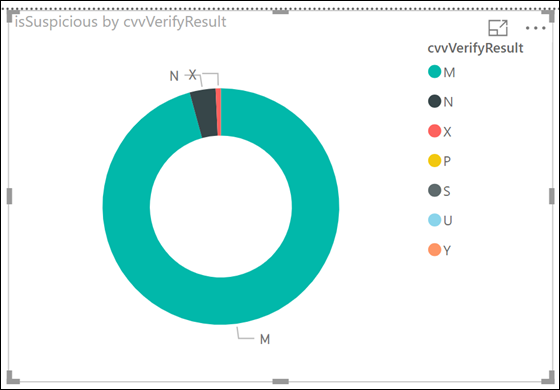
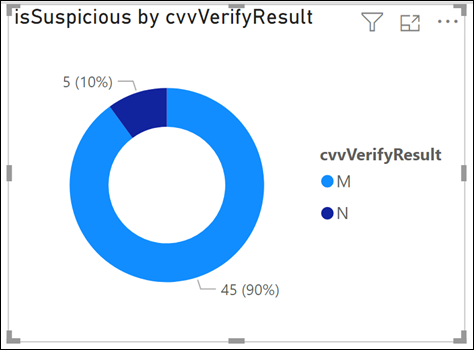
Power BI reporting

diff --git a/Hands-on lab/HOL step-by step - Cosmos DB real-time advanced analytics.md b/Hands-on lab/HOL step-by step - Cosmos DB real-time advanced analytics.md
@@ -64,8 +64,8 @@ Microsoft and the trademarks listed at <https://www.microsoft.com/en-us/legal/in
     - [Task 2: Create Synapse SQL Serverless views](#task-2-create-synapse-sql-serverless-views)
   - [Exercise 7: Query the analytical store with Apache Spark](#exercise-7-query-the-analytical-store-with-apache-spark)
   - [Exercise 8: Reporting](#exercise-8-reporting)
-    - [Task 1: Utilizing Power BI to summarize and visualize global fraud trends](#task-1-utilizing-power-bi-to-summarize-and-visualize-global-fraud-trends)
-    - [Task 2: Creating dashboards in Azure Databricks](#task-2-creating-dashboards-in-azure-databricks)
+    - [Task 1: Retrieve the Synapse SQL Serverless endpoint address](#task-1-retrieve-the-synapse-sql-serverless-endpoint-address)
+    - [Task 2: Utilizing Power BI to summarize and visualize global fraud trends](#task-2-utilizing-power-bi-to-summarize-and-visualize-global-fraud-trends)
   - [After the hands-on lab](#after-the-hands-on-lab)
     - [Task 1: Delete the resource group](#task-1-delete-the-resource-group)
 
@@ -1598,140 +1598,107 @@ Woodgrove also wants to explore the Cosmos DB analytical store with Apache Spark
 
 Duration: 30 minutes
 
-In this exercise, you create dashboards and reports in Power BI for business analysts to use, as well as within Azure Databricks for data scientists and analysts to query and visualize the data interactively.
+In this exercise, you create dashboards and reports in Power BI that connect to the Azure Cosmos DB analytical stores through the Synapse SQL Serverless views you created earlier.
 
-### Task 1: Utilizing Power BI to summarize and visualize global fraud trends
+### Task 1: Retrieve the Synapse SQL Serverless endpoint address
 
-In this task, you will use the JDBC URL for your Azure Databricks cluster to connect to from Power BI desktop. Then you will create reports and add them to a dashboard to summarize and visualize global fraud trends to gain more insight into the data.
+In this task, you retrieve the SQL service endpoint address used to connect to your Synapse SQL Serverless database from your Power BI reports.
 
-1. Navigate to your Azure Databricks workspace in the [Azure portal](https://portal.azure.com/), and select **Launch Workspace** from the overview blade, signing into the workspace with your Azure credentials, if required.
+1. In the Azure Portal, navigate to the **Resource Group** created for this hands-on lab, then navigate to the **Synapse Analytics workspace** resource.
 
-    ![The Launch Workspace button is displayed on the Databricks Workspace Overview blade.](media/databricks-launch-workspace.png 'Launch Workspace')
+    ![The Synapse workspace within the Resource Group is highlighted.](media/resource-group-hands-on-lab-synapse.png "The Synapse workspace within the Resource Group is highlighted.")
 
-2. Select **Clusters** from the left-hand menu, then select your cluster in the list of interactive clusters.
+2. In the Synapse Analytics workspace Overview blade, copy the **SQL on-demand endpoint** and save it to Notepad or similar text editor.
 
-    ![The cluster is listed and selected](media/databricks-select-cluster.png 'Select cluster')
+    ![The on-demand endpoint is highlighted.](media/synapse-serverless-address.png "Overview blade")
 
-3. Scroll down and expand the **Advanced Options** section, then select the **JDBC/ODBC** tab. Copy the first **JDBC URL** value.
+### Task 2: Utilizing Power BI to summarize and visualize global fraud trends
 
-    ![The cluster is displayed with the JDBC/ODBC tab selected, and the first JDBC URL value is highlighted.](media/databricks-jdbc.png 'JDBC/ODBC')
+In this task, you will use the Synapse SQL Serverless service endpoint to connect to from Power BI desktop. Then you will create reports and add them to a dashboard to summarize and visualize global fraud trends to gain more insight into the data.
 
-4. Now, you need to modify the JDBC URL to construct the JDBC server address that you will use to set up your Spark cluster connection in Power BI Desktop.
+1. Open Power BI Desktop and sign in if needed.
 
-    - In the JDBC URL:
-      - Replace `jdbc:spark` with `https`.
-      - Remove everything in the path between the port number and `/sql`.
-      - Remove the following string from the end of the URL: `;AuthMech=3;UID=token;PWD=<personal-access-token>`, retaining the components indicated by the highlights in the image below.
+    ![The Sign in button is highlighted.](media/pbi-signin.png "Power BI Desktop")
 
-    ![Parsed Cluster JDBC URL](media/databricks-cluster-jdbc-url-parsed.png 'Parsed JDBC URL')
+2. On the Power BI Desktop welcome screen select **Get data**.
 
-    - In our example, the server address would be: `https://eastus.azuredatabricks.net:443/sql/protocolv1/o/8433778235244215/0210-035431-quad242`
+    ![Select Get Data on the Power BI Desktop home screen.](media/pbi-getdata.png "Power BI Desktop")
 
-    - Copy your server address.
+3. In the Get Data dialog, select **Azure**, then **Azure SQL database**. Select **Connect**.
 
-5. Open Power BI Desktop, then select **Get data**.
+    ![The Azure SQL database connection is selected.](media/pbi-get-data-azure-sql-database.png "Get Data")
 
-    ![Select Get Data on the Power BI Desktop home screen.](media/power-bi-desktop-home.png 'Power BI Desktop')
+4. Paste the SQL on-demand endpoint you copied in Task 1 above, into the **Server** field. Type `Woodgrove` in the **Database** field. Select the **Import** option and then select **OK**.
 
-6. In the Get Data dialog, search for `spark`, then select **Spark** from the list of results.
+    ![The SQL connection details are displayed.](media/pbi-sql-connection.png "SQL Server database")
 
-    ![Search for Spark in the Get Data dialog, then select Spark from the list results.](media/power-bi-desktop-get-data.png 'Get Data')
+5. Select **Microsoft account** for the authentication type, then select **Sign in** to enter your Azure account credentials used for this lab. After authenticating, select **Connect** to continue.
 
-7. Enter the Databricks server address you created above into the Server field.
+    ![The sign in button is highlighted.](media/pbi-azure-auth.png "Microsoft account")
 
-8. Set the Protocol to HTTP.
+6. Select all the views, then select **Load**.
 
-9. Select DirectQuery as the data connectivity mode, then select OK.
+    ![All views are selected.](media/pbi-navigator.png "Navigator")
 
-    ![The Spark connection dialog is displayed with the previously mentioned values.](media/power-bi-desktop-spark-connection.png 'Spark connection dialog')
+7. After a few moments, you will be redirected to a blank report screen with the tables listed on the right-hand side. Select the **Donut chart** visualization on the right-hand menu under Visualizations and next to the list of tables and fields.
 
-    > Setting the data connectivity mode to DirectQuery lets you offload processing to Spark. This is ideal when you have a large volume of data or when you want near real-time analysis.
+    ![Select Donut chart under the Visualizations menu on the right.](media/power-bi-donut-chart.png "Donut Chart")
 
-10. Before you can enter credentials on the next screen, you need to create an Access token in Azure Databricks. In your Databricks workspace, select the Account icon in the top right corner, then select User settings from the menu.
+8. Expand the `SuspiciousTransactions` view, then drag `ipCountryCode` under **Legend**, and `transactionAmountUSD` under **Values**.
 
-    ![Select User Settings from the Account menu.](media/databricks-user-settings.png 'User Settings menu')
+    ![Screenshot shows the donut chart settings.](media/power-bi-donut-chart-country-transaction.png "Donut Chart settings")
 
-11. On the User Settings page, select **Generate New Token**, enter "Power BI Desktop" in the comment, and select Generate.
-
-    ![Enter Power BI Desktop as the comment then select Generate.](media/databricks-generate-token.png 'Generate New Token')
-
-12. Copy the generated token, and save it as you will need it more than once below. **NOTE**: You will not be able to access the token in Databricks once you close the Generate token dialog, so be sure to save this value to a text editor or another location you can access during this lab.
-
-13. Back in Power BI Desktop, enter "token" for the username, and paste the access token you copied from Databricks into the password field.
-
-    ![Enter "token" as the user name and paste your generated token into the password field.](media/power-bi-desktop-spark-token.png 'Enter Spark credentials')
-
-14. Select the `scored_transactions` and `percent_suspicious` tables, then select **Load**.
-
-    ![Select the scored_transactions and percent_suspicious tables, then select Load.](media/power-bi-desktop-select-tables.png 'Select Tables')
-
-15. After a few moments, you will be redirected to a blank report screen with the tables listed on the right-hand side. Select the **Donut chart** visualization on the right-hand menu under Visualizations and next to the list of tables and fields.
-
-    ![Select Donut chart under the Visualizations menu on the right.](media/power-bi-donut-chart.png 'Donut Chart')
-
-16. Expand the `scored_transactions` table, then drag `ipCountryCode` under **Legend**, and `transactionAmountUSD` under **Values**.
-
-    ![Screenshot shows the donut chart settings.](media/power-bi-donut-chart-country-transaction.png 'Donut Chart settings')
-
-17. Now select the **Format** tab for the donut chart and expand the **Legend** section underneath. Select **On** to turn on the legend, and select **Right** underneath **Position**. This turns on the legend for the chart and displays it to the right.
-
-    ![Screenshot shows the donut chart format settings.](media/power-bi-donut-chart-country-transaction-format.png 'Donut Chart format')
-
-18. Your donut chart should look similar to the following, displaying the US dollar amount of transactions by country code:
+9. Your donut chart should look similar to the following, displaying the US dollar amount of transactions by country code:
 
     ![Screenshot of the donut chart.](media/power-bi-donut-chart-country-transaction-display.png 'Donut Chart')
 
-19. Select a blank area on the report to deselect the donut chart. Now select the **Treemap** visualization.
+10. Select a blank area on the report to deselect the donut chart. Now select the **Treemap** visualization.
 
-    ![The Treemap visualization is selected.](media/power-bi-treemap-visualization.png 'Treemap visualization')
+    ![The Treemap visualization is selected.](media/power-bi-treemap-visualization.png "Treemap visualization")
 
-20. Drag the `ipCountryCode` field from the `scored_transactions` table under **Group**, then drag `isSuspicious` under **Values**.
+11. Drag the `ipCountryCode` field from the `SuspiciousTransactions` view under **Group**, then drag `isSuspicious` under **Values**.
 
-    ![Screenshot shows the treemap settings.](media/power-bi-treemap-country-suspicious-transactions.png 'Treemap settings')
+    ![Screenshot shows the treemap settings.](media/power-bi-treemap-country-suspicious-transactions.png "Treemap settings")
 
-21. The treemap should look similar to the following, displaying the number of suspicious transactions per country:
+12. The treemap should look similar to the following, displaying the number of suspicious transactions per country:
 
     ![Screenshot of the treemap.](media/power-bi-treemap-country-suspicious-transactions-display.png 'Treemap')
 
-22. Select a blank area on the report to deselect the treemap. Now select the **Treemap** visualization once more to add a new treemap. Drag the `transactionAmountUSD` field from the `scored_transactions` table under **Group**, then drag `isSuspicious` under **Values**.
+13. Select a blank area on the report to deselect the treemap. Now select the **Treemap** visualization once more to add a new treemap. Drag the `transactionAmountUSD` field from the `scored_transactions` table under **Group**, then drag `isSuspicious` under **Values**.
 
-    ![Screenshot shows the treemap settings.](media/power-bi-treemap-suspicious-transactions.png 'Treemap settings')
+    ![Screenshot shows the treemap settings.](media/power-bi-treemap-suspicious-transactions.png "Treemap settings")
 
-23. The new treemap should look similar to the following, displaying the US dollar amounts that tend to have suspicious transactions, with the larger boxes representing higher suspicious transactions compared to smaller boxes:
+14. The new treemap should look similar to the following, displaying the US dollar amounts that tend to have suspicious transactions, with the larger boxes representing higher suspicious transactions compared to smaller boxes:
 
     ![Screenshot of the treemap.](media/power-bi-treemap-suspicious-transactions-display.png 'Treemap')
 
-24. Select a blank area on the report to deselect the treemap. Now select the **Donut chart** visualization. Drag the `localHour` field from the `scored_transactions` table under **Legend**, then drag `isSuspicious` under **Values**.
+15. Select a blank area on the report to deselect the treemap. Now select the **Donut chart** visualization. Drag the `localHour` field from the `SuspiciousTransactions` view under **Legend**, then drag `isSuspicious` under **Values**.
 
-    ![Screenshot of the Donut chart settings.](media/power-bi-donut-chart-suspicious-hour.png 'Donut Chart settings')
+    ![Screenshot of the Donut chart settings.](media/power-bi-donut-chart-suspicious-hour.png "Donut Chart settings")
 
-25. The donut chart should look similar to the following, displaying which hours of the day tend to have a higher number of suspicious activity overall:
+16. The donut chart should look similar to the following, displaying which hours of the day tend to have a higher number of suspicious activity overall:
 
     ![Screenshot of the donut chart highlighted.](media/power-bi-donut-chart-suspicious-hour-display.png 'Donut Chart')
 
-26. Select a blank area on the report to deselect the donut chart. Now select the **Map** visualization. Drag the `ipCountryCode` field from the `scored_transactions` table under **Location**, then drag `isSuspicious` under **Size**.
+17. Select a blank area on the report to deselect the donut chart. Now select the **Map** visualization. Drag the `ipCountryCode` field from the `SuspiciousTransactions` view under **Location**, then drag `isSuspicious` under **Size**.
 
-    ![Screenshot of the Map visualization settings.](media/power-bi-map.png 'Map settings')
+    ![Screenshot of the Map visualization settings.](media/power-bi-map.png "Map settings")
 
-27. The map should look similar to the following, showing circles of varying sizes on different regions of the map. The larger the circle, the more suspicious transactions there are in that region. You may also resize the charts to optimize your layout:
+18. The map should look similar to the following, showing circles of varying sizes on different regions of the map. The larger the circle, the more suspicious transactions there are in that region. You may also resize the charts to optimize your layout:
 
-    ![Screenshot of the map visualization and the full report view.](media/power-bi-map-display.png 'Map')
+    ![Screenshot of the map visualization and the full report view.](media/power-bi-map-display.png "Map")
 
-28. Now add a new page to your report. Select the **+** button on the bottom-left next to **Page 1**. This will create a new blank report page to add a few more visualizations.
+19. Now add a new page to your report. Select the **+** button on the bottom-left next to **Page 1**. This will create a new blank report page to add a few more visualizations.
 
-    ![Screenshot of the button you select to add a new page to the report.](media/power-bi-new-page.png 'New page button')
+    ![Screenshot of the button you select to add a new page to the report.](media/power-bi-new-page.png "New page button")
 
-29. Select a blank area on the report, then select the **Donut chart** visualization. Drag the `cvvVerifyResult` field from the `scored_transactions` table under **Legend**, then drag `isSuspicious` under **Values**.
+20. Select a blank area on the report, then select the **Donut chart** visualization. Drag the `cvvVerifyResult` field from the `SuspiciousTransactoins` view under **Legend**, then drag `isSuspicious` under **Values**.
 
-    ![Screenshot of the Donut chart settings.](media/power-bi-donut-chart-verify-result.png 'Donut Chart settings')
+    ![Screenshot of the Donut chart settings.](media/power-bi-donut-chart-verify-result.png "Donut Chart settings")
 
-30. Now select the **Format** tab for the donut chart and expand the **Legend** section underneath. Select **On** to turn on the legend, and select **Right** underneath **Position**. This turns on the legend for the chart and displays it to the right.
+21. The donut chart should look similar to the following, displaying which CVV2 credit card verification codes correlate with the most suspicious transactions:
 
-    ![Screenshot shows the donut chart format settings.](media/power-bi-donut-chart-country-transaction-format.png 'Donut Chart format')
-
-31. The donut chart should look similar to the following, displaying which CVV2 credit card verification codes correlate with the most suspicious transactions:
-
-    ![Screenshot of the donut chart highlighted.](media/power-bi-donut-chart-verify-result-display.png 'Donut Chart')
+    ![Screenshot of the donut chart highlighted.](media/power-bi-donut-chart-verify-result-display.png "Donut Chart")
 
     The CVV2 codes have the following meaning in the data set:
 
@@ -1743,43 +1710,35 @@ In this task, you will use the JDBC URL for your Azure Databricks cluster to con
     | S    | Issuer indicates that CVV2 data should be present on the card, but the merchant has indicated data is not present on the card |
     | U    | Issuer has not certified for CVV2 or Issuer has not provided Visa with the CVV2 encryption keys                               |
 
-32. Select a blank area on the report, then select the **100% Stacked column chart** visualization. Drag the `isSuspicious` field from the `scored_transactions` table under **Axis**, then drag `digitalItemCount` under **Value**, and finally `physicalItemCount` under **Value** as well.
+22. Select a blank area on the report, then select the **Pie chart** visualization. Drag the `ipCountryCode` field from the `SuspiciousAgg` view under **Legend**, then drag `PercentSuspicious` under **Values**.
 
-    ![Screenshot of the 100% Stacked Column Chart settings.](media/power-bi-stacked-column-chart.png '100% Stacked Column Chart settings')
+    ![Screenshot of the pie chart settings.](media/power-bi-pie-chart-percent-suspicious.png "Pie chart settings")
 
-33. The 100% stacked column chart should look similar to the following, displaying the percentage of the number of physical items and digital items purchased for transactions that were not suspicious (value of 0) in one column, and the percentage of the number of both types of items purchased with suspicious transactions (value of 1):
+23. The pie chart should look similar to the following, displaying the percent of suspicious transactions by country code:
 
-    ![Screenshot of the 100% stacked column chart.](media/power-bi-stacked-column-chart-display.png '100% Stacked Column Chart')
+    ![Screenshot of the pie chart.](media/power-bi-pie-chart-percent-suspicious-display.png "Donut Chart")
 
-34. Select a blank area on the report, then select the **ArcGIS Maps for Power BI** visualization. If you are prompted to accept the terms for using this visualization, please do so now. Drag the `ipCountryCode` field from the `percent_suspicious` table under **Location**, then drag `SuspiciousTransactionCount` under **Color**.
+24. Select a blank area on the report, then select the **Matrix** visualization. Drag the `AccountId` field from the `TransactionCounts` view under **Rows**, drag `SuspiciousCount` under **Values**, then drag `NonSuspiciousCount` under **Values**.
 
-    ![Screenshot of the ArcGIS Map settings.](media/power-bi-arcgis-map.png 'ArcGIS Map settings')
+    ![The Matrix visualization configuration form is displayed.](media/power-bi-matrix.png "Matrix")
 
-35. The ArcGIS Map should look similar to the following, displaying countries that have a higher number of suspicious transactions in darker colors than those with lower amounts:
+25. The matrix showing suspicious vs. non-suspicious counts per user account is displayed. Select the **SuspiciousCount** header to sort by the column in descending order.
 
-    ![Screenshot of the ArcGIS Map.](media/power-bi-arcgis-map-display.png 'ArcGIS Map')
+    ![The Matrix visualization is displayed.](media/power-bi-matrix-display.png "Matrix")
 
-36. Select a blank area on the report, then select the **Pie chart** visualization. Drag the `ipCountryCode` field from the `percent_suspicious` table under **Legend**, then drag `PercentSuspicious` under **Values**.
+26. Select a blank area on the report, then select the **Table** visualization. Expand the `SuspiciousTransactionsWithAccountInfo` view, then drag the following fields into the **Values** field: `fullName`, `accountID`, `city`, `country`, `cardType`, `cvvVerifyResult`, and `browserLanguage`.
 
-    ![Screenshot of the donut chart settings.](media/power-bi-donut-chart-percent-suspicious.png 'Donut Chart settings')
+    ![The table visualization configuration form is displayed.](media/power-bi-table.png "Table")
 
-37. The pie chart should look similar to the following, displaying the percent of suspicious transactions by country code:
+27. The table showing user account information for suspicious transactions is displayed.
 
-    ![Screenshot of the donut chart.](media/power-bi-donut-chart-percent-suspicious-display.png 'Donut Chart')
+    ![The table visualization is displayed.](media/power-bi-table-display.png "Table")
+
+28. Select the account with the highest number of suspicious transactions from the Matrix visualization. The other visualizations will filter based on the selected account.
+
+    ![The visualizations are filtered by the selected account.](media/power-bi-filtered.png "Filtered view")
 
 You may save your chart to local disk. Once saved, you are able to upload the chart to the Power BI website, making it available online with all the charts and data connections intact.
-
-### Task 2: Creating dashboards in Azure Databricks
-
-In this task, you will use an Azure Databricks notebook to build a dashboard, for displaying visualization in Azure Databricks.
-
-1. In your Databricks workspace, select **Workspace** from the left-hand menu, then select **Users** and your user account.
-
-2. In your user workspace, select the **CosmosDbAdvancedAnalytics** folder, then select the **Exercise 5** folder, and select the notebook named **1-Databricks-Dashboards**.
-
-   ![In the user's workspace, the 1-Databricks-Dashboards notebook is selected under the Exercise 2 folder.](media/databricks-user-workspace-ex5-notebook1.png 'Notebooks in the user workspace')
-
-3. In the **1-Databricks-Dashboards** notebook, follow the instructions to complete the remaining steps of this task.
 
 ## After the hands-on lab
 
